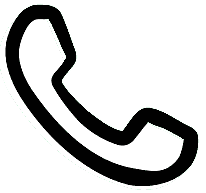
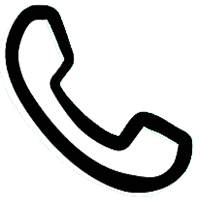
tamaño de las siguientes imagenes redefinido para cumplir con radio de aspecto: de moto header, wahtsapp_grande footer y llamadas de contacto

diff --git a/src/app/ui/menuLoader.jsx b/src/app/ui/menuLoader.jsx
@@ -5,27 +5,20 @@ import { useEffect, useState } from "react";
 
 export default function RestaurantCard({ name, alt, description }) {
   const [dimensions, setDimensions] = useState({ width: 0, height: 0 });
-  const [windowSize, setWindowSize] = useState({
-    width: undefined,
-  });
 
   useEffect(() => {
-    setWindowSize({
-      width: window.width,
-    });
     const img = new Image();
     img.src = `/images/${name}`;
-
     img.onload = () => {
-      let maxWidth = windowSize.width;
+      alert("image loaded");
+      let maxWidth = 800;
       let width = img.naturalWidth;
       let height = img.naturalHeight;
-
+      console.log("maxWidth", maxWidth);
       // Limitar el max width
       if (width > maxWidth) {
         width = maxWidth;
       }
-
       setDimensions({ width: width, height: height });
     };
   }, [name]);
@@ -35,7 +28,7 @@ export default function RestaurantCard({ name, alt, description }) {
       <div className="container flex w-full justify-center ">
         <div className="m-3 max-w-[335px] sm:max-w-xl">
           <Menu
-            src={`/images/${name}`}
+            src={`/images/la-k-karta.png`}
             className="img-fluid rounded-top"
             alt={alt}
             description={description}

diff --git a/src/app/ui/footer.jsx b/src/app/ui/footer.jsx
@@ -7,11 +7,11 @@ const Footer = () => {
         <div className="container-fluid bg-bluefazty py-4 text-center text-white">
           <h3>HAZ TU PEDIDO</h3>
           <h4>ESCRIBE o LLAMA</h4>
-          <div className="ml-2 mt-1 flex justify-center">
+          <div className="mb-1 ml-2 mt-1 flex h-auto w-auto justify-center">
             <Image
               src="/images/whatsapp_solid.png"
               width={75}
-              height={71}
+              height={75}
               alt="VeryFazty contact"
             />
           </div>

diff --git a/src/app/ui/header.jsx b/src/app/ui/header.jsx
@@ -12,11 +12,11 @@ export default function Page() {
         </h1>
         <div>
           <Image
-            className="md:pt-3"
+            className="h-auto w-auto md:pt-3"
             src="/images/solo-moto.png"
-            width="65"
-            height="50"
-            alt="logo de veryfazty, reparto a domicilio en vichayito y pocitas"
+            alt="Logo de veryfazty, reparto a domicilio en vichayito y pocitas"
+            width={45}
+            height={55}
           />
         </div>
       </div>

diff --git a/src/app/la-k/page.jsx b/src/app/la-k/page.jsx
@@ -1,4 +1,3 @@
-import Image from "next/image";
 import Cartelera from "../ui/cartelera";
 import BackArrow from "../ui/back_arrow";
 import karta from "../../../public/images/la-k-karta.png";
@@ -15,7 +14,6 @@ export default function LaK() {
     <div className="min-h-screen">
       <Cartelera />
       <RestaurantCard name={karta} alt={alt} description={description} />
-
       <BackArrow />
     </div>
   );
